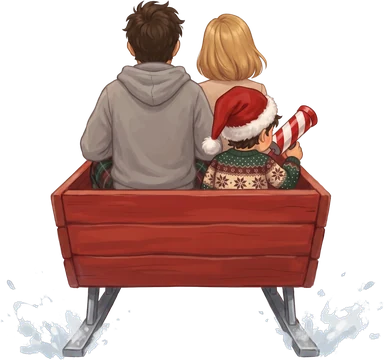
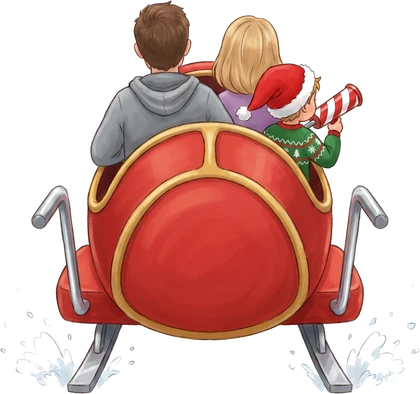
Bobsled chase: six track zones, ramps, snowdrifts, rear-view vehicle sprites
Claude-Session: https://claude.ai/code/session_016HTeTL1HdhdTLdUQNXXCi3

diff --git a/prezentowy-nalot/bobslej/index.html b/prezentowy-nalot/bobslej/index.html
@@ -56,7 +56,7 @@ const stage=document.getElementById('stage'), cv=document.getElementById('cv'), 
 function fit(){ const s=Math.min(innerWidth/VW,innerHeight/VH); stage.style.transform=`translate(-50%,-50%) scale(${s})`; }
 addEventListener('resize',fit); fit();
 const TOUCH=matchMedia('(pointer:coarse)').matches;
-const IMG={}; ['bob_rear','inez_rear','wall','crate','arch','snowman','sky','tree','pole','gift','heart','snowball','elf_happy','kiss'].forEach(n=>{ const i=new Image(); i.src='art/'+n+'.webp'; IMG[n]=i; });
+const IMG={}; ['bob_rear','bob_turn','inez_rear','inez_turn','icearch','crystals','drift','lamp','banner','penguins','ws1','ws2','house1','house3','wall','crate','arch','snowman','sky','tree','pole','gift','heart','snowball','elf_happy','kiss'].forEach(n=>{ const i=new Image(); i.src='art/'+n+'.webp'; IMG[n]=i; });
 const ok=i=>i&&i.complete&&i.naturalWidth;
 const rnd=(()=>{ let s=12345; return ()=>{ s=(s*16807)%2147483647; return s/2147483647; }; })();
 
@@ -90,45 +90,93 @@ function trackAt(s,lat=0){ s=((s%LAP)+LAP)%LAP; const g=SEG[segAt(s)], u=s-g.s; 
 function nearest(x,y,hint){ let best=1e18,bi=0; const n=SEG.length, from=hint==null?0:hint-25, to=hint==null?n:hint+25;
   for(let k=from;k<to;k++){ const i=((k%n)+n)%n, g=SEG[i]; let u=(x-g.x)*g.dx+(y-g.y)*g.dy; u=Math.max(0,Math.min(g.l,u)); const d=(x-g.x-g.dx*u)**2+(y-g.y-g.dy*u)**2; if(d<best){ best=d; bi=i; } }
   const g=SEG[bi]; let u=(x-g.x)*g.dx+(y-g.y)*g.dy; u=Math.max(0,Math.min(g.l,u)); const px=g.x+g.dx*u, py=g.y+g.dy*u, lat=(x-px)*-g.dy+(y-py)*g.dx; return {i:bi,s:g.s+u,lat,px,py,dx:g.dx,dy:g.dy,curv:g.curv}; }
-const BOOSTS=[0.13,0.31,0.47,0.62,0.8,0.93].map(f=>({s:f*LAP,lat:(f*7%1-.5)*HALF*.8}));
-const CRATES=[]; for(let f=.06;f<1;f+=.105) CRATES.push({s:f*LAP,lat:((f*13)%1-.5)*HALF*1.1,gone:0});
+// ---------- zones: each part of the lap has its own width, surface, scenery and light ----------
+const ZONES=[
+  {f:0,   id:'fab',  name:'Dziedziniec fabryki', half:125, ground:'#e3e7ef', ch:['#86b4dc','#9cc4e6','#b3d3ef','#c8e2f6','#dbedfa'], wall:'wall', fog:[214,226,244], dark:0},
+  {f:.14, id:'las',  name:'Las choinkowy',       half:112, ground:'#dbe6ea', ch:['#7fb7de','#93c6e7','#a9d3ef','#bfe1f6','#d3ebfa'], wall:'wall', fog:[200,222,226], dark:.1},
+  {f:.31, id:'cave', name:'Lodowa jaskinia',     half:98,  ground:'#3c4c7c', ch:['#3f6aa8','#4f7fbf','#6496d2','#7cacdf','#93c0ea'], wall:'wall', fog:[40,60,120], dark:.62},
+  {f:.47, id:'lake', name:'Zamarznięte jezioro', half:178, ground:'#cfeaf6', ch:['#9ad6ef','#a6dcf2','#b4e3f5','#c3e9f8','#d2eefa'], wall:'drift', fog:[222,240,250], dark:0, slip:1},
+  {f:.65, id:'vil',  name:'Wioska elfów',        half:94,  ground:'#efe4d6', ch:['#88b3d8','#9cc2e3','#b1d1ec','#c6dff4','#dbecfa'], wall:'wall', fog:[236,222,214], dark:.05},
+  {f:.83, id:'jump', name:'Skocznia',            half:132, ground:'#e8eef8', ch:['#7fb7de','#93c6e7','#a9d3ef','#bfe1f6','#d3ebfa'], wall:'wall', fog:[214,226,244], dark:0}];
+ZONES.forEach((z,i)=>{ z.slip=z.slip||0; z.s=z.f*LAP; z.e=(ZONES[i+1]?ZONES[i+1].f:1)*LAP; z.i=i; });
+const zoneAt=s=>{ s=((s%LAP)+LAP)%LAP; for(let i=ZONES.length-1;i>=0;i--) if(s>=ZONES[i].s) return ZONES[i]; return ZONES[0]; };
+const BLEND=260; // zones fade into each other over this distance
+function zoneMix(s,key){ s=((s%LAP)+LAP)%LAP; const z=zoneAt(s), N=ZONES.length, d0=s-z.s, d1=z.e-s; let o=null, k=1;
+  if(d0<BLEND/2){ o=ZONES[(z.i-1+N)%N]; k=.5+d0/BLEND; } else if(d1<BLEND/2){ o=ZONES[(z.i+1)%N]; k=.5+d1/BLEND; }
+  const b=z[key]; if(!o) return b; const a=o[key]; return Array.isArray(b)?b.map((v,j)=>a[j]+(v-a[j])*k):a+(b-a)*k; }
+const HALFS=new Float32Array(Math.ceil(LAP/8)+2); for(let i=0;i<HALFS.length;i++) HALFS[i]=zoneMix(i*8,'half');
+const halfAt=s=>HALFS[(((s%LAP)+LAP)%LAP/8)|0];
+const RAMPS=[.885*LAP,.955*LAP], RAMPL=70;
+const BOOSTS=[0.06,0.2,0.28,0.52,0.6,0.73,0.8,0.92].map(f=>({s:f*LAP,lat:(f*7%1-.5)*halfAt(f*LAP)*.9}));
+const CRATES=[]; for(let f=.04;f<1;f+=.12) CRATES.push({s:f*LAP,lat:((f*13)%1-.5)*halfAt(f*LAP)*1.1,gone:0});
+// snowdrifts lie across the narrow village streets (they slow you down; the cannon blasts them)
+const DRIFTS=[]; { const z=ZONES[4]; for(let s=z.s+250;s<z.e-200;s+=230) DRIFTS.push({s,lat:(DRIFTS.length%3-1)*halfAt(s)*.55,gone:0}); }
 
 // ---------- the painted ground (Mode 7 texture) ----------
 const TS=2048, TSC=TS/WORLD; let TEX32=null; const SNOW32=0xfffbf3ee;
 (function(){ const o=document.createElement('canvas'); o.width=o.height=TS; const g=o.getContext('2d');
   g.fillStyle='#edf3fb'; g.fillRect(0,0,TS,TS);
   for(let k=0;k<14000;k++){ g.fillStyle=`rgba(${160+rnd()*50|0},${185+rnd()*45|0},${225+rnd()*25|0},${.06+rnd()*.12})`; g.beginPath(); g.arc(rnd()*TS,rnd()*TS,1+rnd()*7,0,6.29); g.fill(); }
-  for(let k=0;k<60;k++){ g.strokeStyle='rgba(170,190,215,.35)'; g.lineWidth=1.5; g.beginPath(); let x=rnd()*TS,y=rnd()*TS; g.moveTo(x,y); for(let j=0;j<8;j++){ x+=(rnd()-.5)*90; y+=(rnd()-.5)*90; g.lineTo(x,y); } g.stroke(); }
-  const path=()=>{ g.beginPath(); PATH.forEach((p,i)=>i?g.lineTo(p[0]*TSC,p[1]*TSC):g.moveTo(p[0]*TSC,p[1]*TSC)); g.closePath(); };
-  g.lineJoin='round'; g.lineCap='round';
-  path(); g.strokeStyle='#dbe5f1'; g.lineWidth=(HALF*2+120)*TSC; g.stroke();
-  path(); g.strokeStyle='#c43a3a'; g.lineWidth=(HALF*2+18)*TSC; g.stroke();
-  path(); g.setLineDash([10,10]); g.strokeStyle='#ffffff'; g.lineWidth=(HALF*2+18)*TSC; g.stroke(); g.setLineDash([]);
-  // the banked channel: darker blue ice near the walls, light in the groove
-  [[2,'#7fb7de'],[1.75,'#93c6e7'],[1.45,'#a9d3ef'],[1.1,'#bfe1f6'],[.7,'#d3ebfa']].forEach(([w,col])=>{ path(); g.strokeStyle=col; g.lineWidth=HALF*w*TSC; g.stroke(); });
-  path(); g.setLineDash([22,30]); g.strokeStyle='rgba(255,255,255,.7)'; g.lineWidth=2; g.stroke(); g.setLineDash([]);
+  // the land of each zone around the track
+  ZONES.forEach(z=>{ for(let s=z.s;s<z.e;s+=40){ const t=trackAt(s); g.fillStyle=z.ground; g.globalAlpha=.16; g.beginPath(); g.arc(t.x*TSC,t.y*TSC,(z.half+(z.id==='lake'?900:z.id==='cave'?380:520))*TSC,0,6.29); g.fill(); } g.globalAlpha=1;
+    for(let s=z.s;s<z.e;s+=14){ const t=trackAt(s,(rnd()-.5)*(z.half*2+(z.id==="lake"?1500:700))); let x=t.x*TSC, y=t.y*TSC;
+      if(z.id==='las'){ g.fillStyle=`rgba(${40+rnd()*40|0},${90+rnd()*50|0},${60+rnd()*30|0},.35)`; g.fillRect(x,y,2,2); }
+      else if(z.id==='cave'){ g.fillStyle=rnd()<.5?'rgba(20,30,70,.5)':'rgba(120,200,255,.5)'; g.beginPath(); g.arc(x,y,1+rnd()*4,0,6.29); g.fill(); }
+      else if(z.id==='lake'){ g.strokeStyle='rgba(255,255,255,.8)'; g.lineWidth=1; g.beginPath(); g.moveTo(x,y); let a=rnd()*6.3; for(let j=0;j<4;j++){ a+=(rnd()-.5)*1.5; g.lineTo(x+=Math.cos(a)*9,y+=Math.sin(a)*9); } g.stroke(); }
+      else if(z.id==='vil'){ g.fillStyle=`rgba(${150+rnd()*40|0},${110+rnd()*30|0},${90},.25)`; g.fillRect(x,y,4,3); }
+      else if(z.id==='fab'){ g.fillStyle='rgba(120,120,140,.22)'; g.fillRect(x,y,5,5); } } });
+  // the channel itself, strip by strip, so it can change width and colour along the lap
+  const strip=(w,col,step=1)=>{ for(let i=0;i<SEG.length;i+=step){ const a=SEG[i], b=SEG[(i+step)%SEG.length], wa=w(a.s), wb=w(b.s), c2=col(a.s);
+    g.fillStyle=c2; g.strokeStyle=c2; g.lineWidth=1; g.beginPath(); g.moveTo((a.x+a.dy*wa)*TSC,(a.y-a.dx*wa)*TSC); g.lineTo((b.x+b.dy*wb)*TSC,(b.y-b.dx*wb)*TSC); g.lineTo((b.x-b.dy*wb)*TSC,(b.y+b.dx*wb)*TSC); g.lineTo((a.x-a.dy*wa)*TSC,(a.y+a.dx*wa)*TSC); g.closePath(); g.fill(); g.stroke(); } };
+  const rgb=a=>`rgb(${a[0]|0},${a[1]|0},${a[2]|0})`, hex=h=>[parseInt(h.slice(1,3),16),parseInt(h.slice(3,5),16),parseInt(h.slice(5,7),16)];
+  ZONES.forEach(z=>z.chRGB=z.ch.map(hex));
+  strip(s=>halfAt(s)+60,s=>zoneAt(s).id==='cave'?'#6d7fae':'#dbe5f1');
+  strip(s=>halfAt(s)+9,s=>zoneAt(s).id==='lake'?'#f6fbff':(Math.floor(s/22)%2?'#ffffff':'#c43a3a'));
+  [1,.875,.725,.55,.35].forEach((w,j)=>strip(s=>halfAt(s)*w,s=>rgb(zoneMix(s,'chRGB')[j])));
+  // the groove dashes
+  g.strokeStyle='rgba(255,255,255,.7)'; g.lineWidth=2; for(let s=0;s<LAP;s+=52){ const a=trackAt(s), b=trackAt(s+22); g.beginPath(); g.moveTo(a.x*TSC,a.y*TSC); g.lineTo(b.x*TSC,b.y*TSC); g.stroke(); }
+  // glassy streaks on the lake
+  { const z=ZONES[3]; g.strokeStyle='rgba(255,255,255,.55)'; for(let s=z.s;s<z.e;s+=30){ const t=trackAt(s,(rnd()-.5)*z.half*1.6), a=Math.atan2(t.dy,t.dx)+(rnd()-.5)*.5; g.lineWidth=1+rnd()*2; g.beginPath(); g.moveTo(t.x*TSC,t.y*TSC); g.lineTo((t.x+Math.cos(a)*60)*TSC,(t.y+Math.sin(a)*60)*TSC); g.stroke(); } }
   // turbo chevrons
   BOOSTS.forEach(b=>{ for(let k=0;k<4;k++){ const t=trackAt(b.s+k*26,b.lat), a=Math.atan2(t.dy,t.dx); g.save(); g.translate(t.x*TSC,t.y*TSC); g.rotate(a); g.fillStyle=k%2?'#ffb02e':'#ffe14a'; g.beginPath(); g.moveTo(-6,-14); g.lineTo(4,0); g.lineTo(-6,14); g.lineTo(-2,14); g.lineTo(8,0); g.lineTo(-2,-14); g.closePath(); g.fill(); g.restore(); } });
+  // ramps: wooden planks with orange stripes across the whole channel
+  RAMPS.forEach(r=>{ for(let k=0;k<RAMPL;k+=3){ const w=halfAt(r)-6, a=trackAt(r+k,-w), b=trackAt(r+k,w); g.strokeStyle=k%12<6?'#b9773b':'#d2924f'; if(k>RAMPL-9) g.strokeStyle='#ff8a2a'; g.lineWidth=3*TSC+1; g.beginPath(); g.moveTo(a.x*TSC,a.y*TSC); g.lineTo(b.x*TSC,b.y*TSC); g.stroke(); } });
   // checkered start line
-  const s0=trackAt(0); g.save(); g.translate(s0.x*TSC,s0.y*TSC); g.rotate(Math.atan2(s0.dy,s0.dx)); const cs=HALF*TSC/4; for(let i=-4;i<4;i++) for(let j=0;j<2;j++){ g.fillStyle=(i+j)%2?'#1d1d24':'#ffffff'; g.fillRect(j*cs-cs,i*cs,cs,cs); } g.restore();
+  const s0=trackAt(0); g.save(); g.translate(s0.x*TSC,s0.y*TSC); g.rotate(Math.atan2(s0.dy,s0.dx)); const cs=halfAt(0)*TSC/4; for(let i=-4;i<4;i++) for(let j=0;j<2;j++){ g.fillStyle=((i+j)%2+2)%2?'#1d1d24':'#ffffff'; g.fillRect(j*cs-cs,i*cs,cs,cs); } g.restore();
   TEX32=new Uint32Array(g.getImageData(0,0,TS,TS).data.buffer); })();
 
-// ---------- billboards placed along the course ----------
+// ---------- billboards placed along the course, zone by zone ----------
 const PROPS=[];
-for(let s=0;s<LAP;s+=64){ for(const side of [-1,1]){ const t=trackAt(s,side*(HALF+16)); PROPS.push({x:t.x,y:t.y,img:'wall',h:34,wall:1}); } }
-for(let s=30;s<LAP;s+=110){ for(const side of [-1,1]){ if(rnd()<.35) continue; const off=HALF+90+rnd()*420, t=trackAt(s,side*off); const n=nearest(t.x,t.y); if(Math.abs(n.lat)<HALF+70) continue; PROPS.push({x:t.x,y:t.y,img:rnd()<.86?'tree':'pole',h:rnd()<.86?170+rnd()*110:120}); } }
-for(let s=200;s<LAP;s+=380){ const side=rnd()<.5?-1:1; for(let k=0;k<3;k++){ const t=trackAt(s+k*34,side*(HALF+58+rnd()*20)); PROPS.push({x:t.x,y:t.y,img:rnd()<.5?'snowman':'elf_happy',h:rnd()<.5?62:54,fan:1,ph:rnd()*6}); } }
-{ const t=trackAt(0); PROPS.push({x:t.x,y:t.y,img:'arch',h:(HALF*2+70)*420/539}); }
+const put=(s,lat,img,h,o={})=>{ const t=trackAt(s,lat); PROPS.push(Object.assign({x:t.x,y:t.y,img,h},o)); };
+const outside=(s,lat)=>{ const t=trackAt(s,lat), n=nearest(t.x,t.y); return Math.abs(n.lat)>halfAt(n.s)+60; };
+for(let s=0;s<LAP;s+=64){ const z=zoneAt(s); for(const side of [-1,1]){ if(z.id==='lake') put(s,side*(halfAt(s)+22),'drift',26,{wall:1}); else put(s,side*(halfAt(s)+16),'wall',34,{wall:1}); } }
+ZONES.forEach(z=>{ const W=s=>halfAt(s);
+  if(z.id==='fab'){ for(let s=z.s+60;s<z.e;s+=150) for(const sd of [-1,1]) put(s,sd*(W(s)+44),'lamp',96);
+    for(let s=z.s+300;s<z.e-100;s+=260){ const sd=(s/260|0)%2?1:-1; if(outside(s,sd*(W(s)+300))) put(s,sd*(W(s)+300),rnd()<.5?'ws1':'ws2',230); }
+    put(z.s+700,0,'banner',(W(z.s+700)*2+60)*488/640); }
+  if(z.id==='las'){ for(let s=z.s;s<z.e;s+=45) for(const sd of [-1,1]){ if(rnd()<.25) continue; const off=W(s)+70+rnd()*380; if(outside(s,sd*off)) put(s,sd*off,'tree',190+rnd()*130); } }
+  if(z.id==='cave'){ put(z.s+20,0,'icearch',(W(z.s)*2+120)*347/640,{far:2600});
+    for(let s=z.s+110;s<z.e-60;s+=85) put(s,0,'icearch',(W(s)*2+90)*347/640,{arch:1});
+    for(let s=z.s+40;s<z.e;s+=70) for(const sd of [-1,1]) if(rnd()<.6) put(s,sd*(W(s)+40+rnd()*60),'crystals',50+rnd()*50); }
+  if(z.id==='lake'){ for(let s=z.s+150;s<z.e;s+=330){ const sd=(s/330|0)%2?1:-1; put(s,sd*(W(s)+70),'penguins',58,{fan:1,ph:rnd()*6}); }
+    for(let s=z.s;s<z.e;s+=160) for(const sd of [-1,1]) if(rnd()<.5){ const off=W(s)+500+rnd()*500; if(outside(s,sd*off)) put(s,sd*off,'tree',200+rnd()*80); } }
+  if(z.id==='vil'){ for(let s=z.s+40;s<z.e;s+=120) for(const sd of [-1,1]) put(s,sd*(W(s)+36),'lamp',96);
+    for(let s=z.s+100;s<z.e-60;s+=170) for(const sd of [-1,1]){ const off=W(s)+170+rnd()*90; if(outside(s,sd*off)) put(s,sd*off,['house1','house3','ws1','ws2'][(rnd()*4)|0],180+rnd()*40); }
+    for(let s=z.s+200;s<z.e;s+=300){ const sd=rnd()<.5?-1:1; for(let k=0;k<3;k++) put(s+k*34,sd*(W(s)+70),rnd()<.5?'snowman':'elf_happy',rnd()<.5?62:54,{fan:1,ph:rnd()*6}); } }
+  if(z.id==='jump'){ RAMPS.forEach(r=>put(r-30,0,'banner',(W(r)*2+60)*488/640));
+    for(let s=z.s;s<z.e;s+=110) for(const sd of [-1,1]){ if(rnd()<.4) continue; const off=W(s)+90+rnd()*420; if(outside(s,sd*off)) put(s,sd*off,rnd()<.8?'tree':'pole',rnd()<.8?170+rnd()*110:120); }
+    for(let s=z.s+100;s<z.e;s+=260){ const sd=rnd()<.5?-1:1; for(let k=0;k<3;k++) put(s+k*34,sd*(W(s)+70),rnd()<.5?'penguins':'elf_happy',rnd()<.5?54:54,{fan:1,ph:rnd()*6}); } } });
+{ const t=trackAt(0); PROPS.push({x:t.x,y:t.y,img:'arch',h:(halfAt(0)*2+70)*420/539}); }
 
 // ---------- state ----------
 const RW=400, RH=225, HZ=74, FH=RH-HZ, CAMH=44, CAMD=100, FAR=4200, S=VW/RW;
 const low=document.createElement('canvas'); low.width=RW; low.height=FH; const lc=low.getContext('2d'), LD=lc.createImageData(RW,FH), LD32=new Uint32Array(LD.data.buffer);
 const VMAX=640, NEED_HP=8;
-let state='intro', P, INEZ, shots, obst, hearts, sparks, t0=0, count=0, clock=0, cam={x:0,y:0,a:0,f:200,roll:0}, shake=0, flash=0, hint=null, saidWall=0, saidClose=0, ammoMsg=0, last=performance.now();
+let state='intro', P, INEZ, shots, obst, hearts, sparks, t0=0, count=0, clock=0, cam={x:0,y:0,a:0,f:200,roll:0,h:44}, shake=0, zoneMsg=null, flash=0, hint=null, saidWall=0, saidClose=0, ammoMsg=0, last=performance.now();
 const K={};
-function reset(){ const t=trackAt(-180); P={x:t.x,y:t.y,a:Math.atan2(t.dy,t.dx),vx:0,vy:0,i:segAt(-180),s:-180,lap:-1,lastS:LAP-180,spin:0,boost:0,cool:0,steer:0,ammo:6,bump:0,fire:0};
-  INEZ={s:520,lat:0,v:0,hp:NEED_HP,spin:0,atk:5,dodge:0,dsign:1,lap:0,phase:1,x:0,y:0,a:0}; shots=[]; obst=[]; hearts=[]; sparks=[]; clock=0; CRATES.forEach(c2=>c2.gone=0);
-  cam={x:P.x-Math.cos(P.a)*CAMD,y:P.y-Math.sin(P.a)*CAMD,a:P.a,f:200,roll:0}; const it=trackAt(INEZ.s); INEZ.x=it.x; INEZ.y=it.y; INEZ.a=Math.atan2(it.dy,it.dx); }
+function reset(){ const t=trackAt(-180); P={x:t.x,y:t.y,a:Math.atan2(t.dy,t.dx),vx:0,vy:0,i:segAt(-180),s:-180,lap:-1,lastS:LAP-180,spin:0,boost:0,cool:0,steer:0,ammo:6,bump:0,fire:0,z:0,vz:0,rampCd:0,zone:zoneAt(-180)}; DRIFTS.forEach(d=>d.gone=0); zoneMsg=null;
+  INEZ={s:520,lat:0,v:0,z:0,vz:0,rampCd:0,hp:NEED_HP,spin:0,atk:5,dodge:0,dsign:1,lap:0,phase:1,x:0,y:0,a:0}; shots=[]; obst=[]; hearts=[]; sparks=[]; clock=0; CRATES.forEach(c2=>c2.gone=0);
+  cam={x:P.x-Math.cos(P.a)*CAMD,y:P.y-Math.sin(P.a)*CAMD,a:P.a,f:200,roll:0,h:CAMH}; const it=trackAt(INEZ.s); INEZ.x=it.x; INEZ.y=it.y; INEZ.a=Math.atan2(it.dy,it.dx); }
 reset();
 
 // ---------- input ----------
@@ -157,32 +205,41 @@ function update(dt){ t0+=dt; clock+=dt; if(sub){ sub.ttl-=dt; if(sub.ttl<=0) sub
   const fx=Math.cos(P.a), fy=Math.sin(P.a); let vf=P.vx*fx+P.vy*fy, vl=-P.vx*fy+P.vy*fx;
   const st=(K.R?1:0)-(K.L?1:0); P.steer+=(st-P.steer)*Math.min(1,dt*7);
   P.boost=Math.max(0,P.boost-dt); P.spin=Math.max(0,P.spin-dt); P.bump=Math.max(0,P.bump-dt);
-  const top=VMAX*(P.boost>0?1.35:1)*(K.B?.55:1);
+  const top=VMAX*(P.boost>0?1.35:1)*(K.B?.55:1), slip=zoneMix(P.lastS,'slip'), air=P.z>0;
   if(P.spin>0){ P.a+=dt*8; vf*=Math.pow(.35,dt); }
-  else { P.a+=P.steer*dt*(1.65*Math.min(1,Math.max(.25,vf/260)))*(K.B?1.35:1); vf+=(top-vf)*Math.min(1,dt*(vf<top?.75:2.2)); }
-  vl*=Math.exp(-dt*(K.B?2.5:4.2)); // ice: you slide sideways a little in hard turns
+  else { P.a+=P.steer*dt*(1.65*Math.min(1,Math.max(.25,vf/260)))*(K.B?1.35:1)*(air?.3:1)*(1-.2*slip); if(!air) vf+=(top-vf)*Math.min(1,dt*(vf<top?.75:2.2)); }
+  if(!air) vl*=Math.exp(-dt*(K.B?2.5:4.2)*(1-.72*slip)); // ice: you slide sideways in hard turns, a lot more on the frozen lake // ice: you slide sideways a little in hard turns
   P.vx=Math.cos(P.a)*vf-Math.sin(P.a)*vl; P.vy=Math.sin(P.a)*vf+Math.cos(P.a)*vl;
   P.x+=P.vx*dt; P.y+=P.vy*dt;
-  const n=nearest(P.x,P.y,P.i); P.i=n.i; const lim=HALF-WALLPAD;
+  // jumping: off a ramp the sled flies, cannot steer much, and lands with a thump and a little turbo
+  P.rampCd=Math.max(0,P.rampCd-dt);
+  if(air){ P.z+=P.vz*dt; P.vz-=980*dt; if(P.z<=0){ P.z=0; if(P.vz<-150){ shake=.35; sfx('hurt',.2); burst(P.x,P.y,'#ffffff',22,200,6); P.boost=Math.max(P.boost,.7); hint={t:'Super skok! 🚀',ttl:1.4}; } P.vz=0; } }
+  const n=nearest(P.x,P.y,P.i); P.i=n.i; const lim=halfAt(n.s)-WALLPAD;
   if(Math.abs(n.lat)>lim){ const sg=Math.sign(n.lat), nx=-n.dy*sg, ny=n.dx*sg, over=Math.abs(n.lat)-lim; P.x-=nx*over; P.y-=ny*over; const vn=P.vx*nx+P.vy*ny; if(vn>0){ P.vx-=vn*1.6*nx; P.vy-=vn*1.6*ny; }
     if(P.bump<=0&&vn>60){ P.bump=.35; shake=Math.min(.5,vn/500); sfx('hurt',.25); burst(P.x+nx*30,P.y+ny*30,'#e8f7ff',12,180,10); if(!voice&&saidWall<=0){ saidWall=12; say('b_bump2'); } } P.vx*=.985; P.vy*=.985;
     // turn the nose away from the wall so you do not grind along it forever
     const wa=Math.atan2(n.dy,n.dx); let d=Math.atan2(Math.sin(wa-P.a),Math.cos(wa-P.a)); if(Math.abs(d)<1.4) P.a+=d*Math.min(1,dt*3); }
   saidWall-=dt;
+  RAMPS.forEach(r=>{ const d=((n.s-r)%LAP+LAP)%LAP; if(P.z<=0&&P.rampCd<=0&&d>RAMPL-16&&d<RAMPL+6&&vf>120){ P.z=1; P.vz=230+vf*.38; P.rampCd=1.2; beep(330,.25,.06,'triangle'); } });
+  { const z=zoneAt(n.s); if(z!==P.zone){ P.zone=z; zoneMsg={t:z.name,ttl:2.6}; } } if(zoneMsg){ zoneMsg.ttl-=dt; if(zoneMsg.ttl<=0) zoneMsg=null; }
+  DRIFTS.forEach(d=>{ d.gone=Math.max(0,d.gone-dt); if(d.gone>0) return; const t=trackAt(d.s,d.lat); if(P.z<24&&Math.hypot(P.x-t.x,P.y-t.y)<58){ d.gone=10; P.vx*=.45; P.vy*=.45; shake=.35; sfx('splat',.4); burst(t.x,t.y,'#ffffff',26,220,10); if(!voice&&saidWall<=0){ saidWall=10; say('b_snow'); } } });
   if(n.s<400&&P.lastS>LAP-400) P.lap++; if(n.s>LAP-400&&P.lastS<400) P.lap--; P.lastS=n.s; P.s=P.lap*LAP+n.s;
   BOOSTS.forEach(b=>{ const d=((n.s-b.s)%LAP+LAP)%LAP; if(d<100&&Math.abs(n.lat-b.lat)<55&&P.boost<.9){ if(P.boost<=0){ beep(520,.12,.08,'sawtooth'); beep(780,.18,.08,'sawtooth'); } P.boost=1.4; } });
   CRATES.forEach(cr=>{ cr.gone=Math.max(0,cr.gone-dt); if(cr.gone>0) return; const t=trackAt(cr.s,cr.lat); if(Math.hypot(P.x-t.x,P.y-t.y)<52){ cr.gone=9; P.ammo=Math.min(12,P.ammo+4); ammoMsg=1.4; sfx('pick',.5); burst(t.x,t.y,'#ffffff',16,140,20); } });
   ammoMsg=Math.max(0,ammoMsg-dt);
   // --- the snow cannon (little Mikołaj): arcing snowballs, the brass sight curves them towards Inez
   P.cool-=dt; P.fire=Math.max(0,P.fire-dt);
-  if(K.FHit&&P.cool<=0&&P.spin<=0){ if(P.ammo>0){ P.ammo--; P.cool=.32; P.fire=.18; const sp=Math.max(0,vf)+780; shots.push({x:P.x+fx*20,y:P.y+fy*20,vx:fx*sp,vy:fy*sp,z:46,vz:130,t:1.7}); sfx('throw',.4); } else { beep(160,.12,.08); ammoMsg=1.4; } }
+  if(K.FHit&&P.cool<=0&&P.spin<=0){ if(P.ammo>0){ P.ammo--; P.cool=.32; P.fire=.18; const sp=Math.max(0,vf)+780; shots.push({x:P.x+fx*20,y:P.y+fy*20,vx:fx*sp,vy:fy*sp,z:46+P.z,vz:130,t:1.7}); sfx('throw',.4); } else { beep(160,.12,.08); ammoMsg=1.4; } }
   K.FHit=false;
   // --- Inez: a racing line with rubber band, two phases, gifts on the track and hearts thrown back
   const gap=INEZ.s-P.s; let iv=VMAX*.86; if(gap>1600) iv=VMAX*.7; else if(gap>800) iv=VMAX*.82; else if(gap<300) iv=VMAX*.98; if(gap<120) iv=VMAX*1.06; if(gap<0) iv=VMAX*1.4;
-  if(INEZ.phase===2) iv*=1.05; if(INEZ.spin>0){ INEZ.spin-=dt; iv*=.3; }
+  if(INEZ.phase===2) iv*=1.05; INEZ.flee=Math.max(0,(INEZ.flee||0)-dt); if(INEZ.flee>0&&INEZ.spin<=0) iv*=1.3; if(INEZ.spin>0){ INEZ.spin-=dt; iv*=.3; if(INEZ.spin<=0) INEZ.flee=2.8; }
   INEZ.v+=(iv-INEZ.v)*Math.min(1,dt*(gap<0?4:1.3)); INEZ.s+=INEZ.v*dt;
-  INEZ.dodge=Math.max(0,INEZ.dodge-dt); const it0=trackAt(INEZ.s); const want=Math.sin(t0*.55)*HALF*.45-it0.curv*HALF*260;
-  INEZ.lat+=(Math.max(-HALF*.7,Math.min(HALF*.7,want+(INEZ.dodge>0?INEZ.dsign*HALF*.5:0)))-INEZ.lat)*Math.min(1,dt*2.2);
+  INEZ.dodge=Math.max(0,INEZ.dodge-dt); const it0=trackAt(INEZ.s), IH=halfAt(INEZ.s); const want=Math.sin(t0*.55)*IH*.45-it0.curv*IH*260;
+  INEZ.lat+=(Math.max(-IH*.7,Math.min(IH*.7,want+(INEZ.dodge>0?INEZ.dsign*IH*.5:0)))-INEZ.lat)*Math.min(1,dt*2.2);
+  INEZ.rampCd=Math.max(0,INEZ.rampCd-dt); if(INEZ.z>0){ INEZ.z+=INEZ.vz*dt; INEZ.vz-=980*dt; if(INEZ.z<=0){ INEZ.z=0; INEZ.vz=0; } }
+  RAMPS.forEach(r=>{ const d=((INEZ.s-r)%LAP+LAP)%LAP; if(INEZ.z<=0&&INEZ.rampCd<=0&&d>RAMPL-16&&d<RAMPL+6){ INEZ.z=1; INEZ.vz=230+INEZ.v*.38; INEZ.rampCd=1.2; } });
+  DRIFTS.forEach(d=>{ if(d.gone>0||INEZ.z>24) return; const t=trackAt(d.s,d.lat); if(Math.hypot(INEZ.x-t.x,INEZ.y-t.y)<58){ d.gone=10; INEZ.v*=.7; burst(t.x,t.y,'#ffffff',20,200,10); } });
   const it=trackAt(INEZ.s,INEZ.lat); INEZ.x=it.x; INEZ.y=it.y; INEZ.a=Math.atan2(it.dy,it.dx); INEZ.lap=Math.floor(INEZ.s/LAP);
   INEZ.atk-=dt; if(INEZ.atk<=0&&gap>180&&gap<1500&&INEZ.spin<=0){ INEZ.atk=(INEZ.phase===2?2.6:4.2)+Math.random()*2;
     if(Math.random()<.55){ const bt=trackAt(INEZ.s-50,INEZ.lat); obst.push({x:bt.x,y:bt.y,img:'gift',t:0}); if(!voice&&Math.random()<.4) say('b_inez2'); }
@@ -190,9 +247,9 @@ function update(dt){ t0+=dt; clock+=dt; if(sub){ sub.ttl-=dt; if(sub.ttl<=0) sub
   if(gap<380&&gap>0&&saidClose<=0&&!voice){ saidClose=18; say('b_close'); } saidClose-=dt;
   // hearts float back along the track towards us, drifting towards our side of the channel
   hearts.forEach(h=>{ h.t+=dt; h.s-=170*dt; h.lat+=(n.lat-h.lat)*Math.min(1,dt*.8); const t=trackAt(h.s,h.lat); h.x=t.x; h.y=t.y;
-    if(!h.gone&&Math.hypot(P.x-h.x,P.y-h.y)<46){ h.gone=1; spin(P,.9); shake=.4; flash=.25; sfx('splat',.5); burst(h.x,h.y,'#ff8fbf',18,160,30); if(!voice) say('b_bump'); } });
+    if(!h.gone&&P.z<30&&Math.hypot(P.x-h.x,P.y-h.y)<46){ h.gone=1; spin(P,.9); shake=.4; flash=.25; sfx('splat',.5); burst(h.x,h.y,'#ff8fbf',18,160,30); if(!voice) say('b_bump'); } });
   hearts=hearts.filter(h=>!h.gone&&h.t<9&&h.s>P.s-600);
-  obst.forEach(o=>{ o.t+=dt; if(!o.gone&&P.spin<=0&&Math.hypot(P.x-o.x,P.y-o.y)<48){ o.gone=1; spin(P,.85); shake=.45; sfx('hurt',.45); burst(o.x,o.y,'#ff9ccf',18,160,20); if(!voice) say('b_bump'); } });
+  obst.forEach(o=>{ o.t+=dt; if(!o.gone&&P.spin<=0&&P.z<24&&Math.hypot(P.x-o.x,P.y-o.y)<48){ o.gone=1; spin(P,.85); shake=.45; sfx('hurt',.45); burst(o.x,o.y,'#ff9ccf',18,160,20); if(!voice) say('b_bump'); } });
   obst=obst.filter(o=>!o.gone&&o.t<50);
   // snowballs
   shots.forEach(b=>{ b.t-=dt; const sp=Math.hypot(b.vx,b.vy), va=Math.atan2(b.vy,b.vx), ta=Math.atan2(INEZ.y-b.y,INEZ.x-b.x), d=Math.atan2(Math.sin(ta-va),Math.cos(ta-va));
@@ -204,6 +261,7 @@ function update(dt){ t0+=dt; clock+=dt; if(sub){ sub.ttl-=dt; if(sub.ttl<=0) sub
       if(INEZ.hp<=0){ state='won'; INEZ.spin=99; say('b_win_inez',()=>setTimeout(()=>say('b_win',()=>setTimeout(()=>{ say('b_win_m'); finish(true); },300)),300),true); }
       else { if(INEZ.hp===NEED_HP/2) INEZ.phase=2; const ln=['b_hit1','b_inez3','b_hit2','b_inez4','b_hit3']; say(ln[(NEED_HP-INEZ.hp-1)%ln.length],null,true); } }
     obst.forEach(o=>{ if(!o.gone&&Math.hypot(b.x-o.x,b.y-o.y)<46){ o.gone=1; b.t=0; burst(o.x,o.y,'#ff9ccf',14,140,20); sfx('pick',.35); } });
+    DRIFTS.forEach(d=>{ if(d.gone>0) return; const t=trackAt(d.s,d.lat); if(Math.hypot(b.x-t.x,b.y-t.y)<52){ d.gone=10; b.t=0; burst(t.x,t.y,'#ffffff',20,180,10); sfx('pick',.3); } });
     hearts.forEach(h=>{ if(!h.gone&&Math.hypot(b.x-h.x,b.y-h.y)<50){ h.gone=1; b.t=0; burst(h.x,h.y,'#ff8fbf',14,140,30); sfx('pick',.35); } }); });
   shots=shots.filter(b=>b.t>0);
   // bumping into Inez
@@ -217,41 +275,45 @@ function update(dt){ t0+=dt; clock+=dt; if(sub){ sub.ttl-=dt; if(sub.ttl<=0) sub
   const da=Math.atan2(Math.sin(P.a-cam.a),Math.cos(P.a-cam.a)); cam.a+=da*Math.min(1,dt*5.5);
   cam.x=P.x-Math.cos(cam.a)*CAMD; cam.y=P.y-Math.sin(cam.a)*CAMD;
   cam.roll+=((-P.steer*.05-n.curv*vf*1.6)-cam.roll)*Math.min(1,dt*3); cam.roll=Math.max(-.12,Math.min(.12,cam.roll));
-  cam.f+=((P.boost>0?168:200)-cam.f)*Math.min(1,dt*3); }
+  cam.f+=((P.boost>0?168:200)-cam.f)*Math.min(1,dt*3); cam.h+=(CAMH+P.z*.45-cam.h)*Math.min(1,dt*8); }
 
 // ---------- rendering ----------
 function drawFloor(){ const ca=Math.cos(cam.a), sa=Math.sin(cam.a), F=cam.f;
-  for(let y=0;y<FH;y++){ const z=CAMH*F/(y+.6); let o=y*RW; if(z>FAR){ LD32.fill(SNOW32,o,o+RW); continue; }
+  for(let y=0;y<FH;y++){ const z=cam.h*F/(y+.6); let o=y*RW; if(z>FAR){ LD32.fill(SNOW32,o,o+RW); continue; }
     const cx=cam.x+ca*z, cy=cam.y+sa*z, rx=-sa*z/F, ry=ca*z/F; let wx=cx-rx*RW/2, wy=cy-ry*RW/2;
     for(let x=0;x<RW;x++){ const tx=(wx*TSC)|0, ty=(wy*TSC)|0; LD32[o++]=(tx>=0&&ty>=0&&tx<TS&&ty<TS)?TEX32[ty*TS+tx]:SNOW32; wx+=rx; wy+=ry; } }
   lc.putImageData(LD,0,0); c.imageSmoothingEnabled=false; c.drawImage(low,-60,HZ*S,VW+120,FH*S+40); c.imageSmoothingEnabled=true;
   // haze towards the horizon
-  const g=c.createLinearGradient(0,HZ*S,0,HZ*S+150); g.addColorStop(0,'rgba(214,226,244,.95)'); g.addColorStop(1,'rgba(214,226,244,0)'); c.fillStyle=g; c.fillRect(-60,HZ*S,VW+120,150); }
+  const fg=zoneMix(P.lastS,'fog').map(v=>v|0).join(','), dk=zoneMix(P.lastS,'dark'); if(dk>0){ c.fillStyle=`rgba(10,18,52,${dk*.4})`; c.fillRect(-60,HZ*S,VW+120,VH); } const g=c.createLinearGradient(0,HZ*S,0,HZ*S+150); g.addColorStop(0,`rgba(${fg},.95)`); g.addColorStop(1,`rgba(${fg},0)`); c.fillStyle=g; c.fillRect(-60,HZ*S,VW+120,150); }
 function drawSky(){ const im=IMG.sky, hy=HZ*S; if(!ok(im)){ c.fillStyle='#1b2650'; c.fillRect(-60,-60,VW+120,hy+60); return; } const sh=im.naturalHeight*.87, h=hy+80, w=h*im.naturalWidth/sh, off=((-cam.a/(Math.PI*2))*w*1.5%w+w)%w;
-  for(let x=-off-w;x<VW+w;x+=w) c.drawImage(im,0,0,im.naturalWidth,sh,x,hy+6-h,w+1,h); }
-function project(x,y){ const dx=x-cam.x, dy=y-cam.y, ca=Math.cos(cam.a), sa=Math.sin(cam.a), z=dx*ca+dy*sa; if(z<12) return null; const lx=-dx*sa+dy*ca, k=cam.f/z; return {sx:VW/2+lx*k*S, sy:(HZ+CAMH*k)*S, k:k*S, z}; }
+  for(let x=-off-w;x<VW+w;x+=w) c.drawImage(im,0,0,im.naturalWidth,sh,x,hy+6-h,w+1,h); const dk=zoneMix(P.lastS,'dark'); if(dk>0){ c.fillStyle=`rgba(8,14,44,${dk})`; c.fillRect(-60,-60,VW+120,hy+66); } }
+function project(x,y){ const dx=x-cam.x, dy=y-cam.y, ca=Math.cos(cam.a), sa=Math.sin(cam.a), z=dx*ca+dy*sa; if(z<12) return null; const lx=-dx*sa+dy*ca, k=cam.f/z; return {sx:VW/2+lx*k*S, sy:(HZ+cam.h*k)*S, k:k*S, z}; }
 let DL=[];
 function bill(name,x,y,h,o={}){ const p=project(x,y); if(!p||p.z>(o.far||2600)||p.z<(o.near||60)) return; const im=IMG[name]; if(!ok(im)) return; const hh=h*p.k; if(hh<2) return; const w=hh*im.naturalWidth/im.naturalHeight; if(p.sx+w<-80||p.sx-w>VW+80) return;
-  DL.push({z:p.z,f:()=>{ c.save(); c.globalAlpha=Math.min(1,((o.far||2600)-p.z)/500); c.translate(p.sx,p.sy-(o.lift||0)*p.k); if(o.rot) c.rotate(o.rot); if(o.flip) c.scale(-1,1); c.drawImage(im,-w/2,-hh,w,hh); c.restore(); }}); return p; }
+  DL.push({z:p.z,f:()=>{ c.save(); c.globalAlpha=Math.max(0,Math.min(1,((o.far||2600)-p.z)/500,(p.z-(o.near||60))/70)); c.translate(p.sx,p.sy-(o.lift||0)*p.k); if(o.rot) c.rotate(o.rot); if(o.flip) c.scale(-1,1); c.drawImage(im,-w/2,-hh,w,hh); c.restore(); }}); return p; }
 function txt(s,x,y,size,col,al){ c.font=`800 ${size}px "Baloo 2",sans-serif`; c.textAlign=al||'left'; c.textBaseline='middle'; c.lineWidth=Math.max(3,size/5); c.strokeStyle='rgba(10,10,30,.75)'; c.strokeText(s,x,y); c.fillStyle=col; c.fillText(s,x,y); }
 function draw(){ c.setTransform(1,0,0,1,0,0); c.fillStyle='#0b1430'; c.fillRect(0,0,VW,VH);
   c.save(); if(shake>0) c.translate((Math.random()-.5)*22*shake,(Math.random()-.5)*16*shake); c.translate(VW/2,VH*.86); c.rotate(cam.roll); c.translate(-VW/2,-VH*.86);
   drawSky(); drawFloor();
   DL=[];
-  PROPS.forEach(o=>bill(o.img,o.x,o.y,o.h,{lift:o.fan?Math.abs(Math.sin(t0*5+o.ph))*8:0,far:o.wall?1500:2600,near:o.wall?40:70}));
+  PROPS.forEach(o=>bill(o.img,o.x,o.y,o.h,{lift:o.fan?Math.abs(Math.sin(t0*5+o.ph))*8:0,far:o.far||(o.wall?1500:2600),near:o.wall?40:o.arch?60:70}));
+  DRIFTS.forEach(d=>{ if(d.gone>0) return; const t=trackAt(d.s,d.lat); bill('drift',t.x,t.y,44); });
   CRATES.forEach(cr=>{ if(cr.gone>0) return; const t=trackAt(cr.s,cr.lat); bill('crate',t.x,t.y,40,{lift:4+Math.sin(t0*3+cr.s)*4}); });
   obst.forEach(o=>bill(o.img,o.x,o.y,46));
   hearts.forEach(h=>bill('kiss',h.x,h.y,38,{lift:22+Math.sin(t0*8+h.t)*6,rot:Math.sin(t0*6)*.3}));
-  { const rel=Math.atan2(Math.sin(INEZ.a-cam.a),Math.cos(INEZ.a-cam.a)); const p=bill('inez_rear',INEZ.x,INEZ.y,62,{rot:INEZ.spin>0&&state!=='won'?Math.sin(t0*22)*.5:rel*.25,near:85,far:3600}); if(p&&INEZ.spin>0&&state==='race') DL.push({z:p.z-1,f:()=>txt('❄ PAC!',p.sx,p.sy-80*p.k,30,'#ffffff','center')}); }
+  { const rel=Math.atan2(Math.sin(INEZ.a-cam.a),Math.cos(INEZ.a-cam.a)), turn=Math.abs(rel)>.13&&INEZ.spin<=0; const p=bill(turn?'inez_turn':'inez_rear',INEZ.x,INEZ.y,62,{rot:INEZ.spin>0&&state!=='won'?Math.sin(t0*22)*.5:rel*.12,flip:turn&&rel>0,lift:INEZ.z,near:85,far:3600}); if(p&&INEZ.spin>0&&state==='race') DL.push({z:p.z-1,f:()=>txt('❄ PAC!',p.sx,p.sy-80*p.k,30,'#ffffff','center')}); }
   shots.forEach(b=>bill('snowball',b.x,b.y,13,{lift:b.z,near:18}));
   sparks.forEach(q=>{ const p=project(q.x,q.y); if(p&&p.z>40) DL.push({z:p.z,f:()=>{ c.globalAlpha=Math.min(1,q.t*2); c.fillStyle=q.col; c.beginPath(); c.arc(p.sx,p.sy-q.z*p.k,Math.min(9,Math.max(1.5,2.5*p.k)),0,6.29); c.fill(); c.globalAlpha=1; }}); });
   DL.sort((a,b)=>b.z-a.z).forEach(d=>d.f());
   // our bobsled with the family
-  const im=IMG.bob_rear, sp=Math.hypot(P.vx,P.vy); if(ok(im)){ const h=280, w=h*im.naturalWidth/im.naturalHeight, bob=Math.sin(t0*16)*2.5*(sp/VMAX), lean=P.spin>0?Math.sin(t0*25)*.35:P.steer*.12;
-    c.save(); c.translate(VW/2+P.steer*28,VH-14+bob); c.rotate(lean); c.drawImage(im,-w/2,-h,w,h);
-    if(P.fire>0){ c.globalAlpha=P.fire/.18; c.fillStyle='#ffffff'; c.beginPath(); c.arc(w*.07,-h*.66,26*(1.2-P.fire*2),0,6.29); c.fill(); c.globalAlpha=1; } c.restore(); }
+  // default sprite: exactly from behind; a slight-turn frame (mirrored for right) only while steering
+  const turn=Math.abs(P.steer)>.35&&P.spin<=0, im=turn?IMG.bob_turn:IMG.bob_rear, sp=Math.hypot(P.vx,P.vy), lift=P.z*.9;
+  if(lift>0){ c.fillStyle=`rgba(20,30,60,${Math.max(.08,.3-lift/600)})`; c.beginPath(); c.ellipse(VW/2+P.steer*28,VH-12,150-lift*.15,22,0,0,6.29); c.fill(); }
+  if(ok(im)){ const h=250, w=h*im.naturalWidth/im.naturalHeight, bob=Math.sin(t0*16)*2.5*(sp/VMAX)*(lift>0?0:1), lean=P.spin>0?Math.sin(t0*25)*.35:P.steer*.06+(lift>0?-P.vz*.0002:0), fl=turn&&P.steer>0?-1:1;
+    c.save(); c.translate(VW/2+P.steer*28,VH-8+bob-lift); c.rotate(lean); c.scale(fl,1); c.drawImage(im,-w/2,-h,w,h);
+    if(P.fire>0){ c.globalAlpha=P.fire/.18; c.fillStyle='#ffffff'; c.beginPath(); c.arc(w*.3,-h*.84,24*(1.2-P.fire*2),0,6.29); c.fill(); c.globalAlpha=1; } c.restore(); }
   // snow spray from the runners
-  if(sp>150) for(let k=0;k<(P.boost>0?6:3);k++){ const sd=k%2?1:-1; c.fillStyle='rgba(255,255,255,.85)'; c.beginPath(); c.arc(VW/2+P.steer*28+sd*(95+Math.random()*40)-P.steer*60,VH-14-Math.random()*26,3+Math.random()*7,0,6.29); c.fill(); }
+  if(sp>150) for(let k=0;k<(P.boost>0?6:3);k++){ const sd=k%2?1:-1; c.fillStyle='rgba(255,255,255,.85)'; c.beginPath(); if(P.z<=0) c.arc(VW/2+P.steer*28+sd*(95+Math.random()*40)-P.steer*60,VH-14-Math.random()*26,3+Math.random()*7,0,6.29); c.fill(); }
   c.restore();
   if(P.boost>0){ c.strokeStyle='rgba(255,236,150,.55)'; c.lineWidth=3; for(let k=0;k<14;k++){ const a=k/14*6.28+t0*2, r1=260+((t0*900+k*97)%260); c.beginPath(); c.moveTo(VW/2+Math.cos(a)*r1,VH*.55+Math.sin(a)*r1*.55); c.lineTo(VW/2+Math.cos(a)*(r1+80),VH*.55+Math.sin(a)*(r1+80)*.55); c.stroke(); } }
   if(flash>0){ c.fillStyle=`rgba(255,140,190,${flash})`; c.fillRect(0,0,VW,VH); }
@@ -264,6 +326,7 @@ function drawHud(){
   const il=Math.min(3,Math.floor(Math.max(0,INEZ.s)/LAP)+1), gap=Math.round((INEZ.s-P.s)/8); txt(`Okrążenie Inez: ${il} / 3`,VW-30,40,24,'#ffd1dc','right'); txt(gap>0?`Do Inez: ${gap} m`:'Jesteś przed nią!',VW-30,74,22,'#fff','right'); txt('⏱ '+fmt(clock),VW-30,106,20,'#fff','right');
   const mx=VW-215, my=130, ms=180/WORLD; c.save(); c.fillStyle='rgba(10,20,40,.45)'; c.beginPath(); c.roundRect(mx-10,my-10,200,200,14); c.fill(); c.strokeStyle='#bfe3f6'; c.lineWidth=6; c.lineJoin='round'; c.beginPath(); PATH.forEach((p,i)=>i?c.lineTo(mx+p[0]*ms,my+p[1]*ms):c.moveTo(mx+p[0]*ms,my+p[1]*ms)); c.closePath(); c.stroke();
   c.fillStyle='#ff6fae'; c.beginPath(); c.arc(mx+INEZ.x*ms,my+INEZ.y*ms,6,0,6.29); c.fill(); c.fillStyle='#ffe27a'; c.beginPath(); c.arc(mx+P.x*ms,my+P.y*ms,6,0,6.29); c.fill(); c.restore();
+  if(zoneMsg&&state==='race'){ c.save(); c.globalAlpha=Math.min(1,zoneMsg.ttl*1.5,(2.6-zoneMsg.ttl)*4); txt(zoneMsg.t,VW/2,128,40,'#ffffff','center'); c.restore(); }
   if(state==='count'){ const n=Math.ceil(count-.6); txt(n>0?String(n):'START!',VW/2,VH*.36,n>0?120:96,n>0?'#ffe27a':'#7dff7a','center'); }
   if(hint&&state==='race'){ c.save(); c.globalAlpha=Math.min(1,hint.ttl*2); txt(hint.t,VW/2,VH*.36,30,'#ffe27a','center'); c.restore(); }
   if(sub){ c.save(); c.globalAlpha=Math.min(1,sub.ttl*2); c.font='700 24px "Baloo 2",sans-serif'; const s=sub.who+': '+sub.t, w=Math.min(1220,c.measureText(s).width+44), y=VH*.5; c.fillStyle='rgba(10,14,34,.74)'; c.beginPath(); c.roundRect(VW/2-w/2,y-23,w,46,23); c.fill(); txt(sub.who+':',VW/2-w/2+20,y,24,WHO_COL[sub.who]||'#fff'); c.font='700 24px "Baloo 2",sans-serif'; c.fillStyle='#fff'; c.textAlign='left'; c.fillText(sub.t,VW/2-w/2+26+c.measureText(sub.who+':').width,y); c.restore(); } }

diff --git a/prezentowy-nalot/README.md b/prezentowy-nalot/README.md
@@ -51,6 +51,8 @@ The second level of the platformer engine: a toy-factory hall with wooden platfo
 
 ## Pościg w bobslejach (`bobslej/`, Mode 7)
 The finale with Inez, on its own Mode 7 engine: a closed ice-channel course (Catmull-Rom loop around the toy factory) is painted into a 2048² ground texture — banked blue channel, red-and-white wall stripe, turbo chevrons, checkered start — and rendered per scanline at 400×225 with a horizon haze, the North Pole sky scrolling with the heading and the camera rolling in curves. Ice blocks line both walls as billboards; trees, candy-cane poles, snowmen and cheering elves stand outside, the start arch spans the track. The family is seen from behind in their red bobsled (Kaczor steers, Kaka, little Mikołaj with the snow cannon at the back) and Inez races ahead in her pink heart bobsled.
+- Six zones per lap, each with its own width, ice colour, walls, scenery and light, blending into each other: **Dziedziniec fabryki** (lanterns, elf workshops, a garland banner), **Las choinkowy** (dense pines), **Lodowa jaskinia** (a narrow tunnel of ice arches with glowing crystals, dark sky), **Zamarznięte jezioro** (a very wide, slippery glassy stretch edged with snowbanks, cheering penguins), **Wioska elfów** (narrow streets between houses, snowdrifts across the track that slow you down unless you blast them) and **Skocznia** (two wooden ramps under banners: the sled flies, lands with a thump and a short turbo). The zone name shows on entry.
+- Vehicles: the default sprites show both bobsleds exactly from behind; a slight-turn frame (mirrored for the other side) appears only while steering or when Inez curves.
 - Physics: the sled slides a little sideways on the ice, bounces off the channel walls (which slow it and turn the nose away), yellow chevrons give turbo, ▼ brakes for tighter turns.
 - Snow cannon: Space / X / ❄ fires arcing snowballs that the brass sight curves towards Inez; ammo is limited (crates on the track give +4).
 - Inez: rubber-band racing line, swerves away from snowballs, drops gift boxes and throws hearts back down the track (both spin you out; snowballs pop them). After four hits she speeds up and attacks more often. Eight hits before she finishes three laps win; then `../?after=bobslej` leads to the ending at Santa's workshop (`?pole`) and the "Wesołych Świąt" card.
